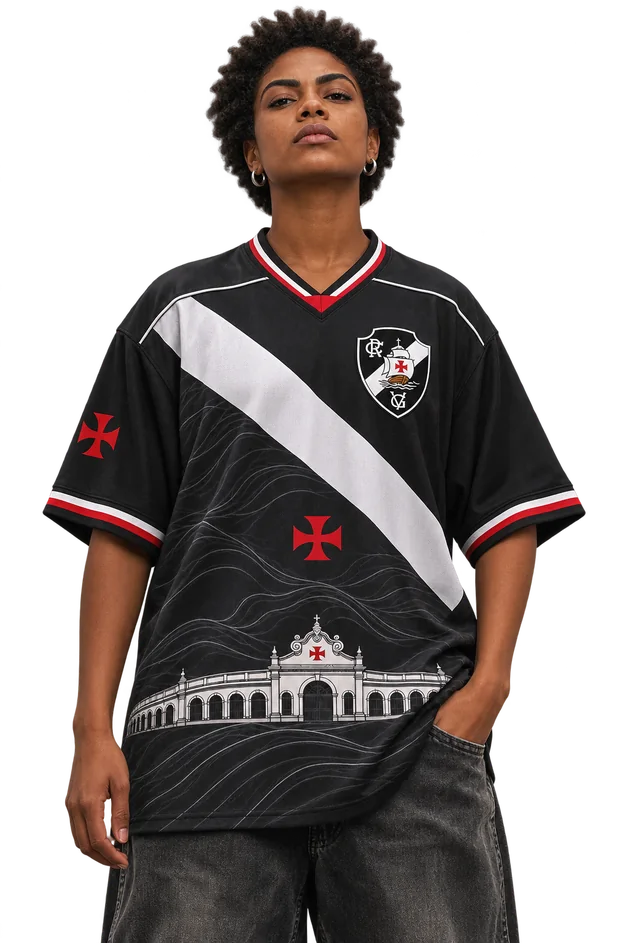
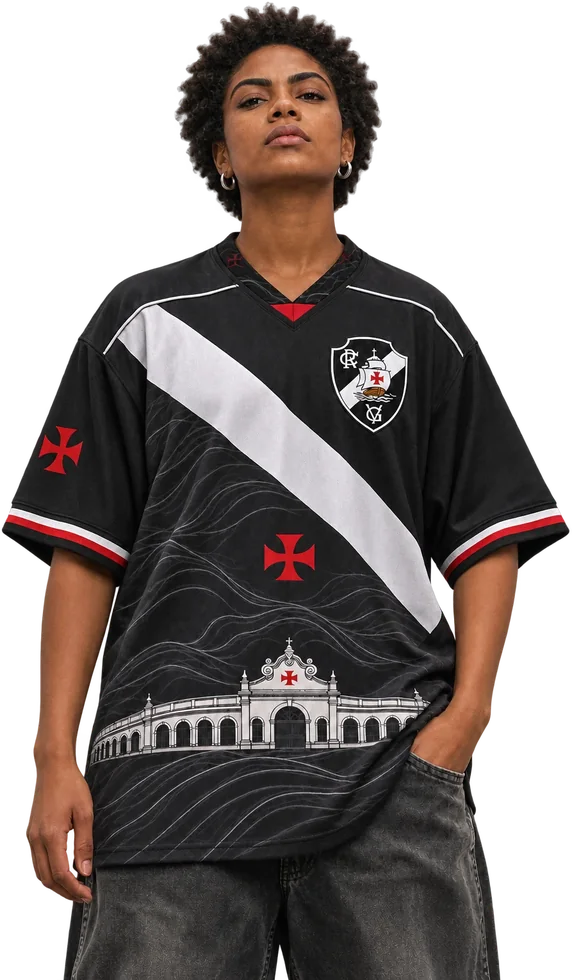
Maiores do Rio: fotos vestidas de Botafogo (Herança, Trama Clara, Território) e Vasco (Trama Clara)
- Estampas com corpo: true ganham a vista 'No corpo' (corpo-<k>.webp), que abre primeiro e vira a miniatura
- Foto nova do modelo do Vasco (Território da Colina)

Claude-Session: https://claude.ai/code/session_01LWKwsvGKQjaMGiuZcpz9Vi

diff --git a/index.html b/index.html
@@ -1304,15 +1304,15 @@ mountDC(Component, {"accent": "#F9CA0D", "whatsapp": "+55 21 96621-4050"}, 'app-
     ] },
     { k: 'botafogo', nome: 'Botafogo', cor: '#DADADA', estampas: [
       { k: 'bot-yamato', nome: 'Yamato-e · Garrincha', sub: 'Tributo a Garrincha em pintura japonesa', foto: true },
-      { k: 'bot-heranca', nome: 'Herança alvinegra', sub: 'Damasco em preto e cinza' },
-      { k: 'bot-trama', nome: 'Trama Clara da Estrela', sub: 'A estrela em tom sobre tom' },
-      { k: 'bot-territorio', nome: 'Território Alvinegro', sub: 'Listras e linhas topográficas' }
+      { k: 'bot-heranca', nome: 'Herança alvinegra', sub: 'Damasco em preto e cinza', corpo: true },
+      { k: 'bot-trama', nome: 'Trama Clara da Estrela', sub: 'A estrela em tom sobre tom', corpo: true },
+      { k: 'bot-territorio', nome: 'Território Alvinegro', sub: 'Listras e linhas topográficas', corpo: true }
     ] },
     { k: 'vasco', nome: 'Vasco', cor: '#DADADA', estampas: [
       { k: 'vas-territorio', nome: 'Território da Colina', sub: 'A faixa e São Januário', foto: true },
       { k: 'vas-yamato', nome: 'Yamato vascaíno', sub: 'A caravela em estilo japonês' },
       { k: 'vas-heranca', nome: 'Herança Cruzmaltina', sub: 'Damasco com a cruz de malta' },
-      { k: 'vas-trama', nome: 'Trama Clara Vascaína', sub: 'Trama náutica em tom sobre tom' }
+      { k: 'vas-trama', nome: 'Trama Clara Vascaína', sub: 'Trama náutica em tom sobre tom', corpo: true }
     ] },
     { k: 'fluminense', nome: 'Fluminense', cor: '#8A1538', estampas: [
       { k: 'flu-trama', nome: 'Trama Clara', sub: 'Folhagem botânica tricolor', foto: true },
@@ -1330,9 +1330,11 @@ mountDC(Component, {"accent": "#F9CA0D", "whatsapp": "+55 21 96621-4050"}, 'app-
   var esc = function (t) { return String(t).replace(/[&<>"]/g, function (c) { return { '&': '&amp;', '<': '&lt;', '>': '&gt;', '"': '&quot;' }[c]; }); };
   var atual = { c: -1, e: 0, vista: 'corpo' };
 
-  var vistas = function (e) { return (e.foto ? ['corpo'] : []).concat(e.k ? ['frente', 'costas'] : []); };
-  var imagem = function (c, e, vista) { return vista === 'corpo' ? D + 'modelo-' + c.k + '.webp' : D + e.k + '-' + vista + '.webp'; };
-  var miniatura = function (c, e) { return e.foto ? D + 'modelo-' + c.k + '.webp' : D + e.k + '-frente.webp'; };
+  // foto no corpo: a principal usa modelo-<clube>.webp; as outras com corpo: true usam corpo-<k>.webp
+  var fotoCorpo = function (c, e) { return e.foto ? D + 'modelo-' + c.k + '.webp' : e.corpo ? D + 'corpo-' + e.k + '.webp' : null; };
+  var vistas = function (e) { return (e.foto || e.corpo ? ['corpo'] : []).concat(e.k ? ['frente', 'costas'] : []); };
+  var imagem = function (c, e, vista) { return vista === 'corpo' ? fotoCorpo(c, e) : D + e.k + '-' + vista + '.webp'; };
+  var miniatura = function (c, e) { return fotoCorpo(c, e) || D + e.k + '-frente.webp'; };
   var zap = function (c, e) { return 'https://wa.me/' + NUM + '?text=' + encodeURIComponent('Olá, Marol Store! Quero a camisa ' + e.nome + ' do ' + c.nome + ', da coleção Maiores do Rio.'); };
 
   $('.mr-escudos').innerHTML = CLUBES.map(function (c, n) {
@@ -1498,7 +1500,7 @@ mountDC(Component, {"accent": "#F9CA0D", "whatsapp": "+55 21 96621-4050"}, 'app-
   // as camisas do clube quando ele é aberto
   var carregadas = {};
   function precarregar(srcs) { srcs.forEach(function (u) { if (!carregadas[u]) { carregadas[u] = new Image(); carregadas[u].src = u; } }); }
-  function precarregarClube(c) { precarregar(c.estampas.reduce(function (l, e) { return e.k ? l.concat([D + e.k + '-frente.webp', D + e.k + '-costas.webp']) : l; }, [])); }
+  function precarregarClube(c) { precarregar(c.estampas.reduce(function (l, e) { return (e.k ? l.concat([D + e.k + '-frente.webp', D + e.k + '-costas.webp']) : l).concat(e.corpo ? [fotoCorpo(c, e)] : []); }, [])); }
   if ('IntersectionObserver' in window) {
     var io2 = new IntersectionObserver(function (es) {
       if (es.some(function (e) { return e.isIntersecting; })) { precarregar(CLUBES.map(function (c) { return D + 'modelo-' + c.k + '.webp'; })); io2.disconnect(); }

diff --git a/CLAUDE.md b/CLAUDE.md
@@ -33,9 +33,10 @@ Landing page estática da **Marol Store** (camisas personalizadas). Tudo está e
 ## Maiores do Rio
 - Homenagem a Flamengo, Botafogo, Vasco e Fluminense; 4 estampas por clube, modelagem oversized.
 - Abertura: só os 4 escudos e "Qual é o seu time do coração?". O clique abre a vitrine do clube: o escudo escolhido voa para o centro do palco e cresce, os outros viram abas pequenas centralizadas no topo (trocar de time); o holofote acende, o escudo se dissolve e o modelo sobe no palco (a troca de time pelas abas repete a animação do escudo); ao lado, as outras 3 estampas do clube (clicar troca a do palco). A estampa principal é a que o modelo veste ("No corpo"); as outras mostram Frente/Costas. "Todos os times" volta para a abertura. No celular (até 980px): escudos em 2×2 e as estampas embaixo do palco.
-- HTML em `#dia-maiores`, estilos em `<style id="estilos-maiores">`, dados e lógica no script "Maiores do Rio" no fim do `index.html` (lista `CLUBES`: `k`, `nome`, `cor`, `estampas` com `k`, `nome`, `sub` e `foto: true` na que o modelo veste). Fica fora do `Component`.
+- HTML em `#dia-maiores`, estilos em `<style id="estilos-maiores">`, dados e lógica no script "Maiores do Rio" no fim do `index.html` (lista `CLUBES`: `k`, `nome`, `cor`, `estampas` com `k`, `nome`, `sub` e `foto: true` na que o modelo veste; `corpo: true` nas outras que têm foto vestida, arquivo `corpo-<k>.webp`). Fica fora do `Component`.
 - Arquivos em `assets/maiores/`: `escudo-<clube>.webp`, `modelo-<clube>.webp`, `<prefixo>-<estampa>-frente.webp` / `-costas.webp` (prefixos `fla-`, `bot-`, `vas-`, `flu-`; estampas `yamato`, `heranca`, `trama`/`plumagem`, `territorio`). Originais em `originais/maiores-do-rio/` (não vão para o ar).
 - Mockups de camisa em fundo bege (frente | costas lado a lado): recortar com `tools/recorte_mockup_bege.py <png> <saída>` (`--sombra` tira a sombra cinza embaixo de barras escuras, não usar em camisas de barra clara; `--grabcut` para fundo com degradê/vinheta ou quando sobra o título grudado na camisa).
+- Fotos vestidas extras: Botafogo Herança, Trama Clara e Território; Vasco Trama Clara.
 - Todas as 16 estampas no ar. Estampa vestida pelo modelo: Flamengo Herança, Botafogo Yamato-e (Garrincha), Vasco Território da Colina, Fluminense Trama Clara.
 
 ## Imagens
